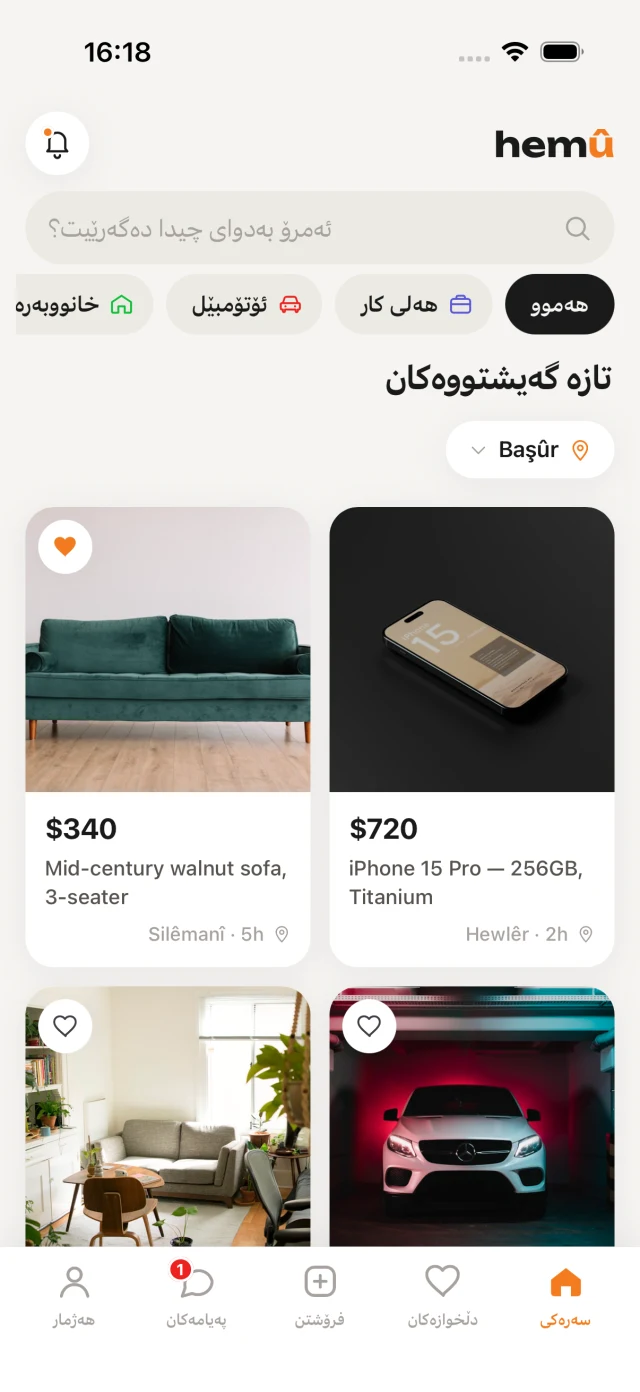
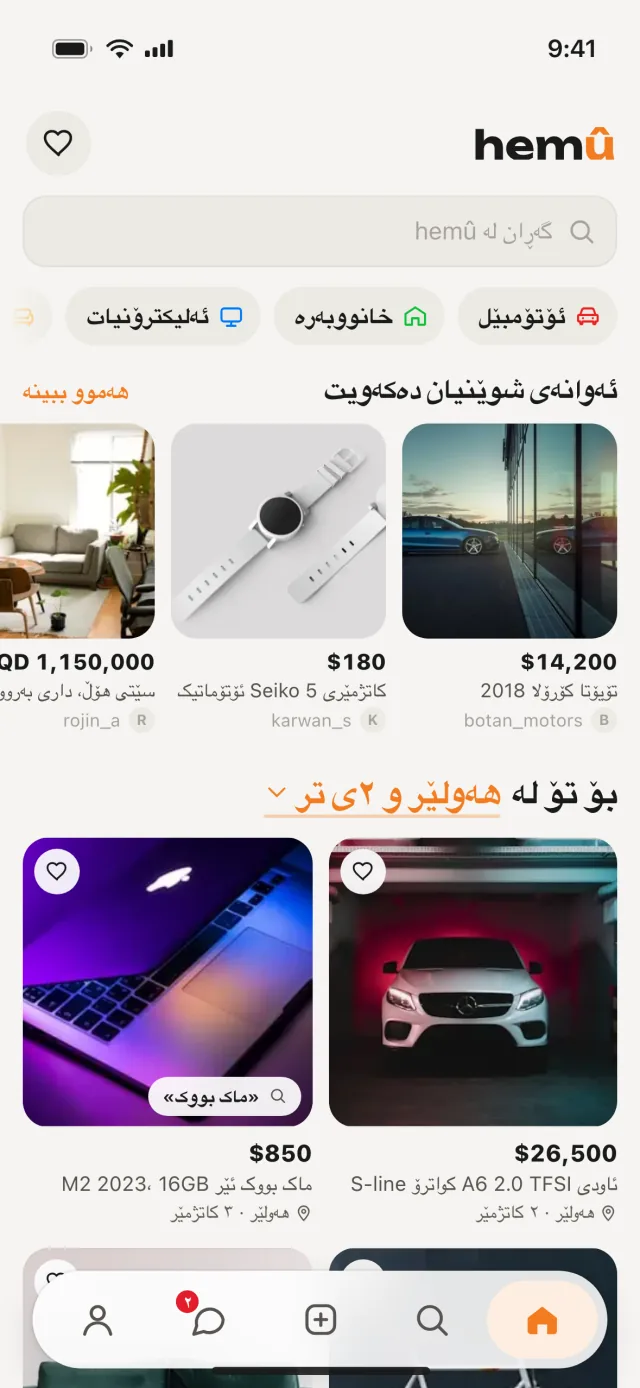
Use the new app screens from the design on the home page
Replace the three old app captures (home, welcome, account) with the Home,
Listing and seller profile screens from the "hemû - app" design's App
Screens page, demo photos on, in English, Sorani, Arabic and Turkish.
Kurmanji shows the English screens and Persian the Sorani screens, since
the design has none for them. The link preview image is re-captured from
the updated page.

diff --git a/index.html b/index.html
@@ -83,8 +83,8 @@
 
             <div class="product-stage" aria-label="hemû app preview">
               <div class="stage-halo"></div>
-              <div class="device device-back device-welcome"><div class="device-speaker"></div><img data-screen="onboarding" src="/src/assets/screens/onboarding-ckb.webp" alt="hemû onboarding screen — کوردی — سۆرانی" loading="lazy" fetchpriority="auto" /></div>
-              <div class="device device-back device-post"><div class="device-speaker"></div><img data-screen="account" src="/src/assets/screens/account-ckb.webp" alt="hemû account screen — کوردی — سۆرانی" loading="lazy" fetchpriority="auto" /></div>
+              <div class="device device-back device-welcome"><div class="device-speaker"></div><img data-screen="listing" src="/src/assets/screens/listing-ckb.webp" alt="hemû listing screen — کوردی — سۆرانی" loading="lazy" fetchpriority="auto" /></div>
+              <div class="device device-back device-post"><div class="device-speaker"></div><img data-screen="profile" src="/src/assets/screens/profile-ckb.webp" alt="hemû seller profile screen — کوردی — سۆرانی" loading="lazy" fetchpriority="auto" /></div>
               <div class="device device-main"><div class="device-speaker"></div><img data-screen="home" src="/src/assets/screens/home-ckb.webp" alt="hemû marketplace home screen — کوردی — سۆرانی" loading="eager" fetchpriority="high" /></div>
               <div class="floating-card">
                 <span class="floating-icon"><svg width="18" height="18" viewBox="0 0 24 24" fill="none" stroke="currentColor" stroke-width="2" aria-hidden="true"><path d="M5 12h14m-5-5 5 5-5 5" /></svg></span>
@@ -98,16 +98,16 @@
                   <div class="device mobile-device"><div class="device-speaker"></div><img data-screen="home" src="/src/assets/screens/home-ckb.webp" alt="hemû marketplace home screen — کوردی — سۆرانی" loading="eager" fetchpriority="high" /></div>
                 </div>
                 <div class="mobile-slide" aria-hidden="true">
-                  <div class="device mobile-device"><div class="device-speaker"></div><img data-screen="onboarding" src="/src/assets/screens/onboarding-ckb.webp" alt="hemû onboarding screen — کوردی — سۆرانی" loading="lazy" fetchpriority="auto" /></div>
+                  <div class="device mobile-device"><div class="device-speaker"></div><img data-screen="listing" src="/src/assets/screens/listing-ckb.webp" alt="hemû listing screen — کوردی — سۆرانی" loading="lazy" fetchpriority="auto" /></div>
                 </div>
                 <div class="mobile-slide" aria-hidden="true">
-                  <div class="device mobile-device"><div class="device-speaker"></div><img data-screen="account" src="/src/assets/screens/account-ckb.webp" alt="hemû account screen — کوردی — سۆرانی" loading="lazy" fetchpriority="auto" /></div>
+                  <div class="device mobile-device"><div class="device-speaker"></div><img data-screen="profile" src="/src/assets/screens/profile-ckb.webp" alt="hemû seller profile screen — کوردی — سۆرانی" loading="lazy" fetchpriority="auto" /></div>
                 </div>
               </div>
               <div class="mobile-pagination" role="tablist" aria-label="App screens" id="mobile-pagination">
                 <button type="button" role="tab" class="is-active" aria-selected="true" aria-label="home screen"></button>
-                <button type="button" role="tab" aria-selected="false" aria-label="onboarding screen"></button>
-                <button type="button" role="tab" aria-selected="false" aria-label="account screen"></button>
+                <button type="button" role="tab" aria-selected="false" aria-label="listing screen"></button>
+                <button type="button" role="tab" aria-selected="false" aria-label="profile screen"></button>
               </div>
             </div>
 

diff --git a/src/main.ts b/src/main.ts
@@ -2,7 +2,7 @@ import './styles.css';
 import { LANGS, T, pageLang } from './translations';
 import type { Lang } from './translations';
 
-type Screen = 'home' | 'onboarding' | 'account';
+type Screen = 'home' | 'listing' | 'profile';
 
 // Hashed URLs of every language's screenshots; the Sorani ones are also named
 // directly in index.html so the browser can fetch them before this module runs.
@@ -11,12 +11,16 @@ const screenUrls = import.meta.glob<string>('./assets/screens/*.webp', {
   query: '?url',
   import: 'default',
 });
-const screenUrl = (screen: Screen, lang: Lang) => screenUrls[`./assets/screens/${screen}-${lang}.webp`];
+// The screens come from the "hemû - app" design, which has no Kurmanji or Persian
+// set: those languages show the English and Sorani screens.
+const SCREEN_LANG: Partial<Record<Lang, Lang>> = { ku: 'en', fa: 'ckb' };
+const screenUrl = (screen: Screen, lang: Lang) =>
+  screenUrls[`./assets/screens/${screen}-${SCREEN_LANG[lang] ?? lang}.webp`];
 
 const ALT: Record<Screen, string> = {
   home: 'marketplace home screen',
-  onboarding: 'onboarding screen',
-  account: 'account screen',
+  listing: 'listing screen',
+  profile: 'seller profile screen',
 };
 
 const root = document.documentElement;
